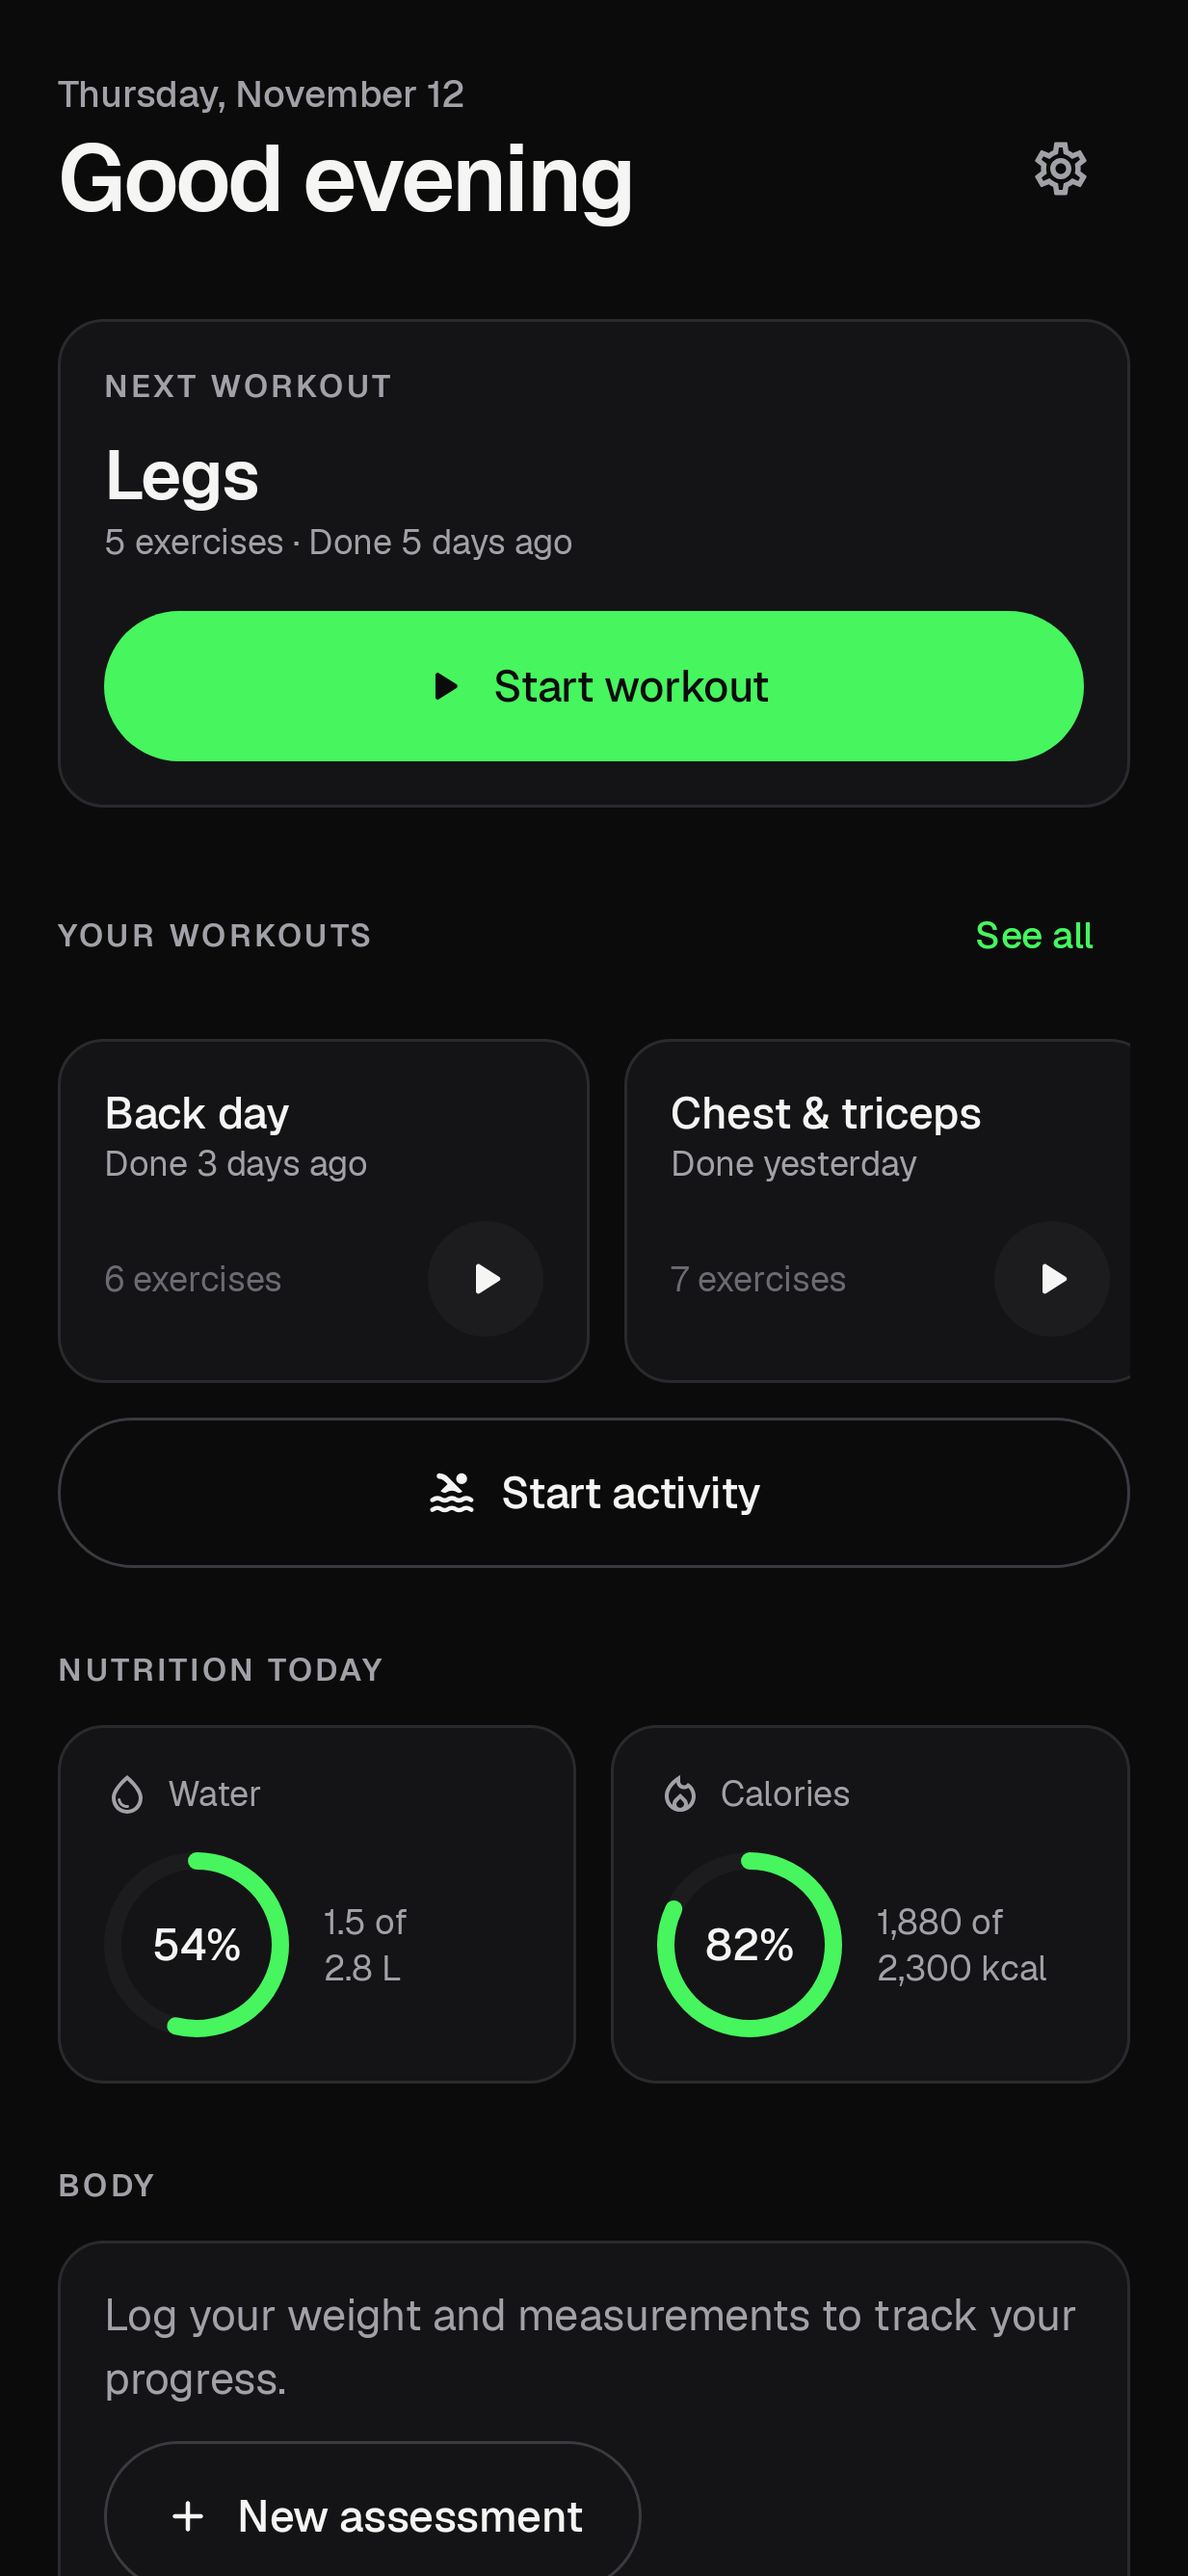
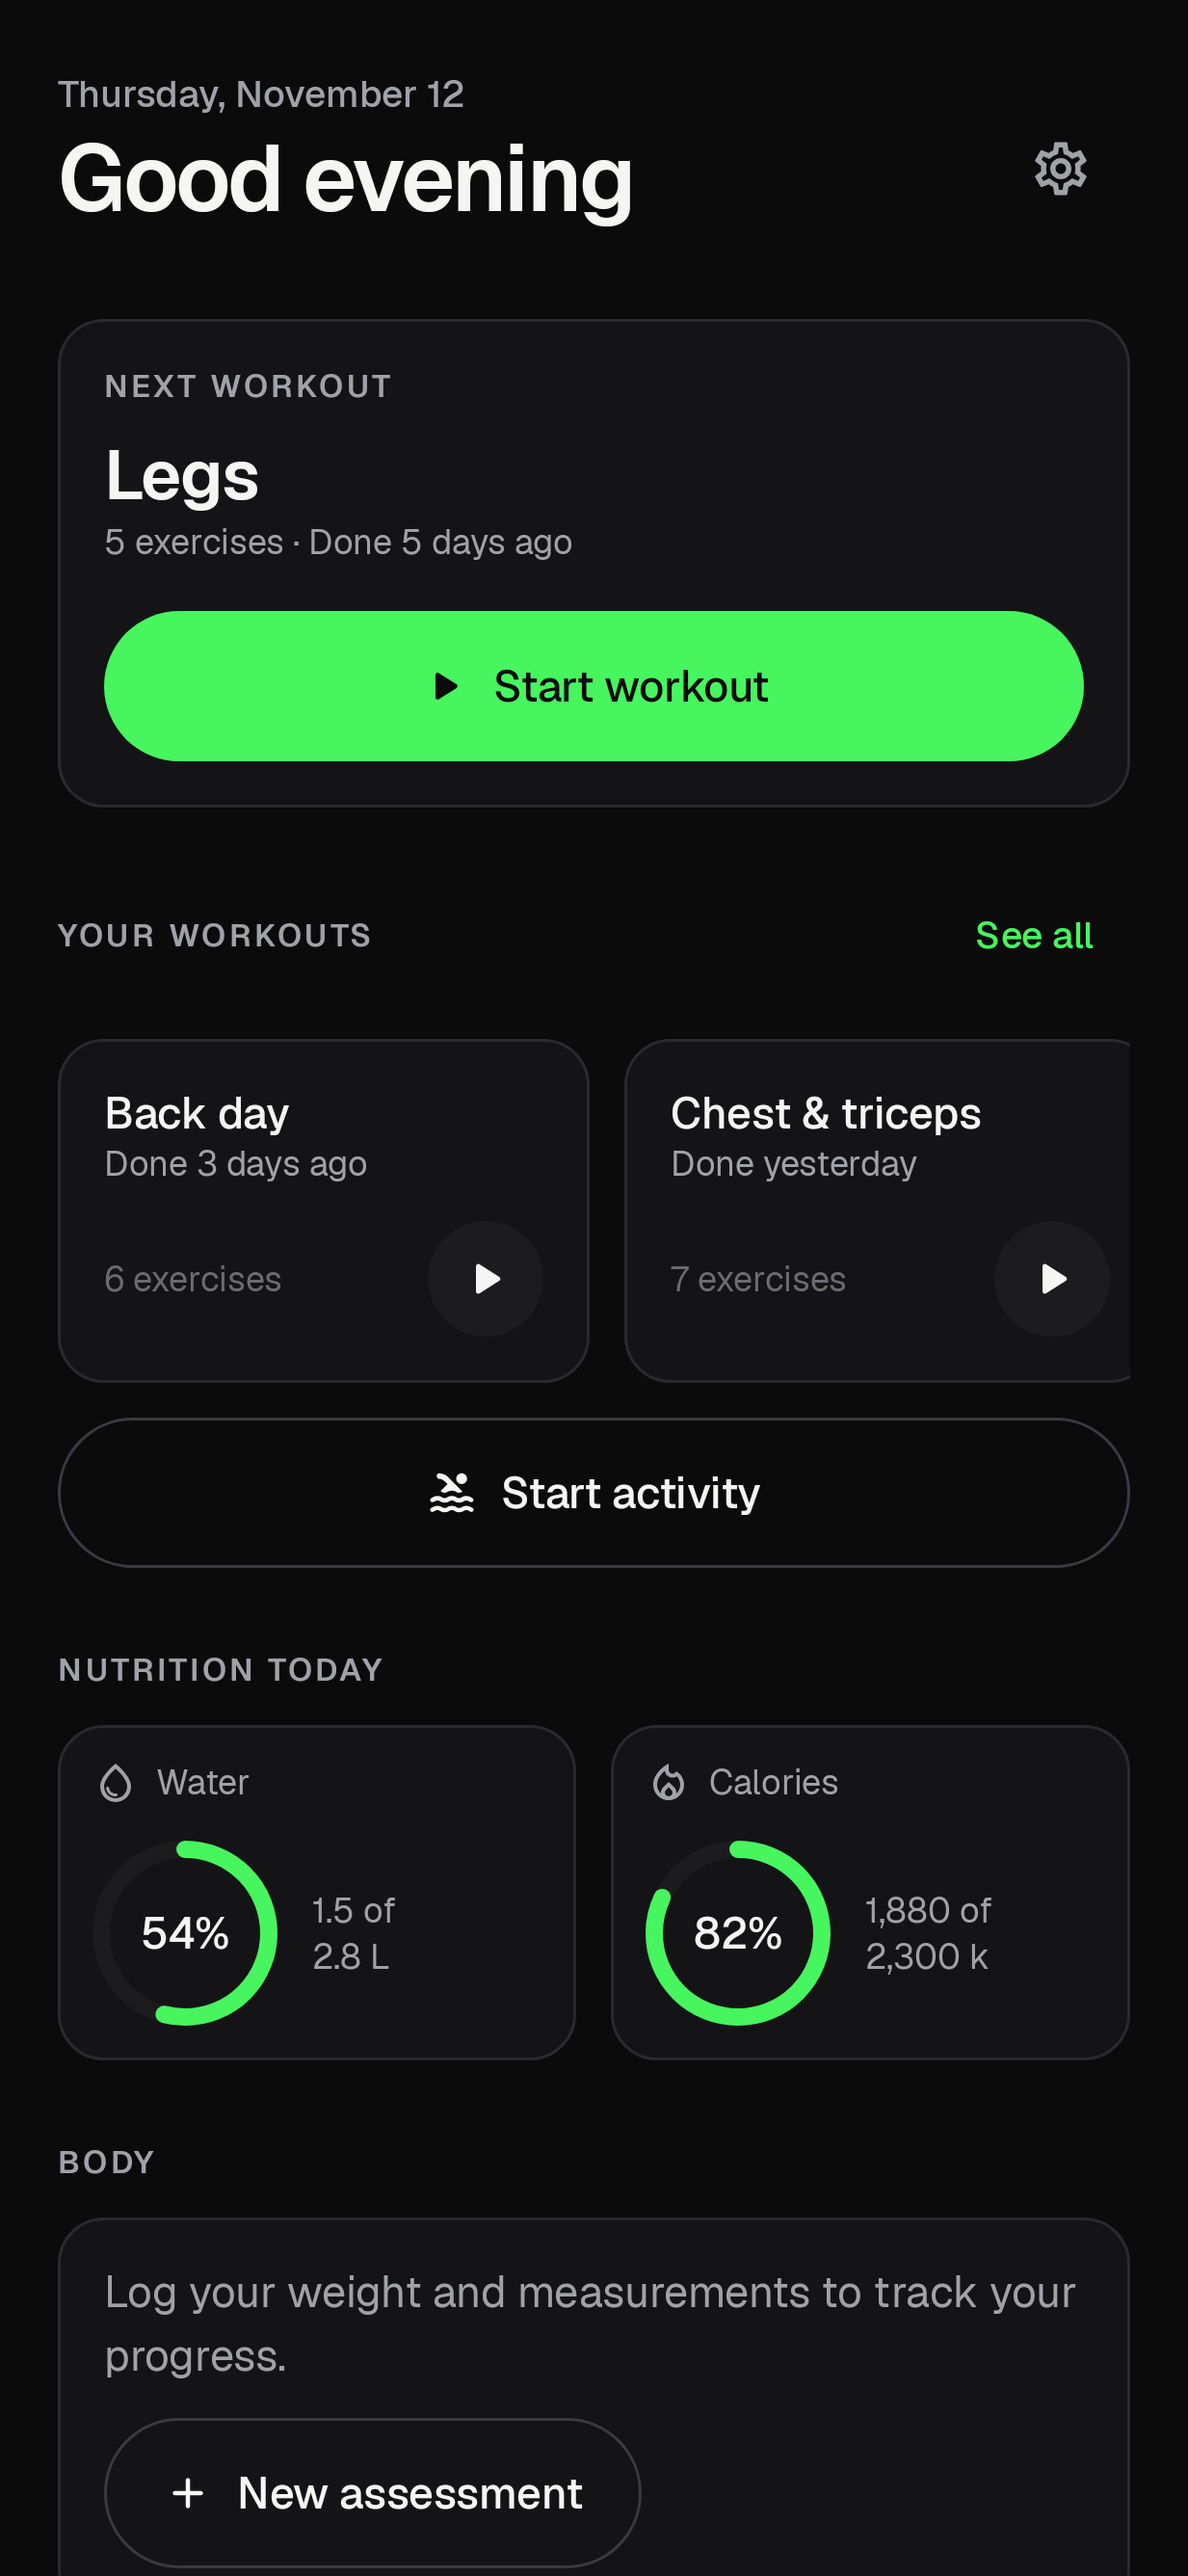
fix(home): calories ring card uses k so the unit stays on the number's line

diff --git a/app/src/test/java/io/github/luannamorim/myfit/ui/feature/nutrition/NutritionTodayCardsNarrowTest.kt b/app/src/test/java/io/github/luannamorim/myfit/ui/feature/nutrition/NutritionTodayCardsNarrowTest.kt
@@ -4,7 +4,9 @@ import androidx.compose.foundation.layout.Box
 import androidx.compose.foundation.layout.padding
 import androidx.compose.foundation.layout.width
 import androidx.compose.ui.Modifier
+import androidx.compose.ui.semantics.SemanticsActions
 import androidx.compose.ui.test.assertIsDisplayed
+import androidx.compose.ui.text.TextLayoutResult
 import androidx.compose.ui.test.getBoundsInRoot
 import androidx.compose.ui.test.junit4.v2.createComposeRule
 import androidx.compose.ui.test.onAllNodesWithTag
@@ -21,6 +23,7 @@ import io.github.luannamorim.myfit.domain.nutrition.NutritionStatus
 import io.github.luannamorim.myfit.domain.nutrition.TargetMissing
 import io.github.luannamorim.myfit.ui.theme.MyFitTheme
 import io.github.luannamorim.myfit.ui.theme.Spacing
+import org.junit.Assert.assertEquals
 import org.junit.Assert.assertTrue
 import org.junit.Rule
 import org.junit.Test
@@ -48,7 +51,7 @@ class NutritionTodayCardsNarrowTest {
                 ) }
             }
         }
-        val detail = compose.onNodeWithText("1.880 de\n2.300 kcal", useUnmergedTree = true)
+        val detail = compose.onNodeWithText("1.880 de\n2.300\u00A0k", useUnmergedTree = true)
         detail.assertIsDisplayed()
         val card = compose.onNodeWithTag("nutritionCard_kcal").getBoundsInRoot()
         val text = detail.getBoundsInRoot()
@@ -75,5 +78,25 @@ class NutritionTodayCardsNarrowTest {
         val hint = compose.onNodeWithText("Preencha: peso, altura, sexo, data de nascimento", useUnmergedTree = true).getBoundsInRoot()
         val ring = compose.onAllNodesWithTag("nutritionRing", useUnmergedTree = true)[1].getBoundsInRoot()
         assertTrue("hint $hint should start under the ring $ring", hint.left < ring.right && hint.top >= ring.bottom)
+    }
+
+    @Test
+    fun caloriesDetail_fitsInTwoLines_onA360dpPhone() {
+        val today = LocalDate.of(2026, 11, 17)
+        compose.setContent {
+            MyFitTheme(ThemeMode.DARK) {
+                Box(Modifier.width(360.dp).padding(horizontal = Spacing.screen)) { // a 360 dp phone
+                    NutritionTodayCards(
+                        NutritionStatus(NutritionDay(today, listOf(Meal(1, today, 600, null, 1880)), 1500, 6), DailyTargets(2300, 2800, emptySet()), NutritionGoal.MAINTAIN),
+                        onOpen = {},
+                    )
+                }
+            }
+        }
+        // User report: "kcal" fell to a third line under the number; "k" keeps it on the number's line.
+        val results = mutableListOf<TextLayoutResult>()
+        compose.onNodeWithText("1.880 de\n2.300\u00A0k", useUnmergedTree = true).fetchSemanticsNode()
+            .config[SemanticsActions.GetTextLayoutResult].action?.invoke(results)
+        assertEquals(2, results.single().lineCount)
     }
 }

diff --git a/app/src/main/java/io/github/luannamorim/myfit/ui/feature/nutrition/NutritionTodayCards.kt b/app/src/main/java/io/github/luannamorim/myfit/ui/feature/nutrition/NutritionTodayCards.kt
@@ -69,7 +69,8 @@ fun NutritionTodayCards(status: NutritionStatus, onOpen: () -> Unit, modifier: M
             done = day.kcal,
             target = targets.kcal,
             detail = targets.kcal?.let { stringResource(R.string.home_nutrition_kcal_detail, formatThousands(day.kcal.toDouble()), formatThousands(it.toDouble())) }
-                ?: stringResource(R.string.nutrition_kcal, formatThousands(day.kcal.toDouble())),
+                // "k", not "kcal": the unit stays on the number's line in the narrow column beside the ring.
+                ?: stringResource(R.string.home_nutrition_kcal_short, formatThousands(day.kcal.toDouble())),
             missing = if (targets.kcal == null) targets.missing.sorted() else emptyList(),
             // Past the target matters when losing fat (same rule as the tab).
             ringColor = if (over && status.goal == NutritionGoal.LOSE) c.warning else c.accent,
@@ -94,7 +95,8 @@ private fun RingCard(
     val c = MyFitTheme.colors
     // Below the target it never reads 100 % (the water reminder still fires until the target is reached).
     val percent = target?.takeIf { it > 0 }?.let { if (done < it) minOf((done * 100f / it).roundToInt(), 99) else (done * 100f / it).roundToInt() }
-    MyFitCard(modifier, onClick = onOpen) {
+    // 12 dp inside (not 16): on a 360 dp phone the column beside the ring needs the room for "2.300 k".
+    MyFitCard(modifier, onClick = onOpen, contentPadding = Spacing.m) {
         LabelWithDot(label, dotColor = null, dotDescription = null, icon = icon)
         Spacer(Modifier.height(Spacing.m))
         // The detail always sits beside the ring and wraps into lines when narrow (it used to drop under the

diff --git a/app/src/test/java/io/github/luannamorim/myfit/ui/feature/nutrition/NutritionTodayCardsTest.kt b/app/src/test/java/io/github/luannamorim/myfit/ui/feature/nutrition/NutritionTodayCardsTest.kt
@@ -49,7 +49,7 @@ class NutritionTodayCardsTest {
         compose.onNodeWithText("54%").assertIsDisplayed()
         compose.onNodeWithText("82%").assertIsDisplayed()
         compose.onNodeWithText("1,5 de\n2,8 L", useUnmergedTree = true).assertIsDisplayed()
-        compose.onNodeWithText("1.880 de\n2.300 kcal", useUnmergedTree = true).assertIsDisplayed()
+        compose.onNodeWithText("1.880 de\n2.300\u00A0k", useUnmergedTree = true).assertIsDisplayed()
     }
 
     @Test
